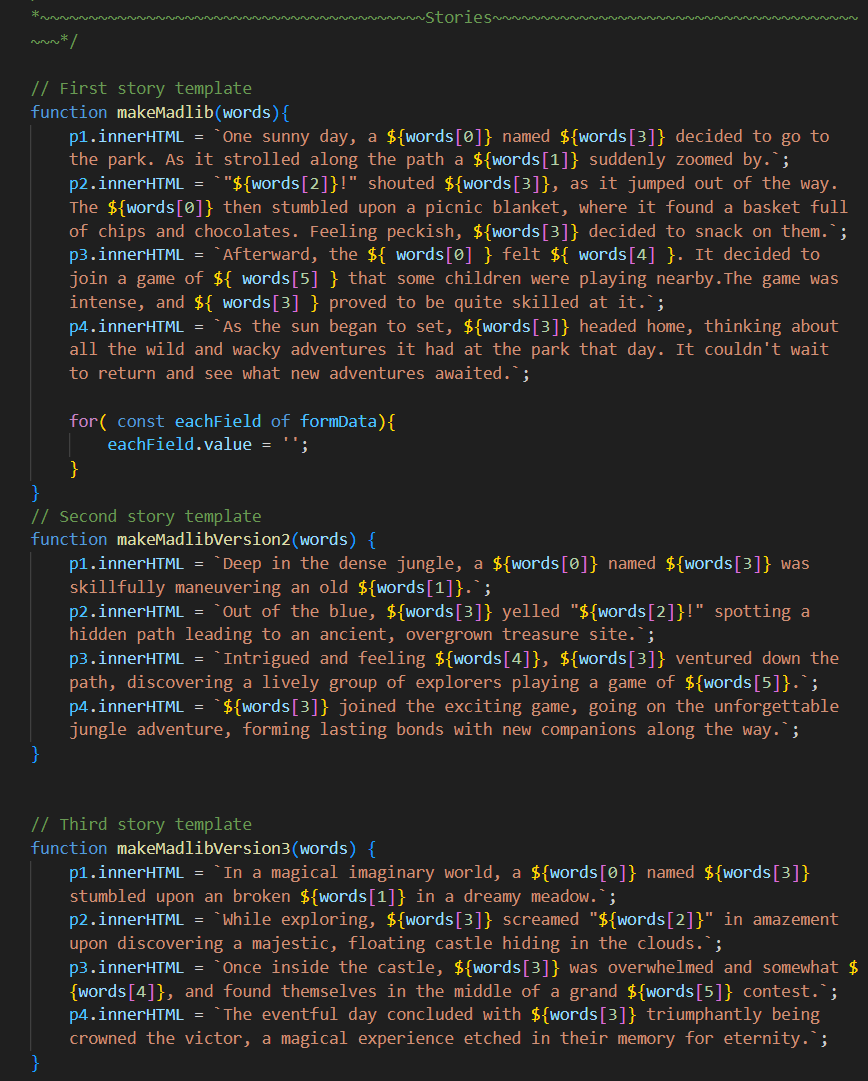
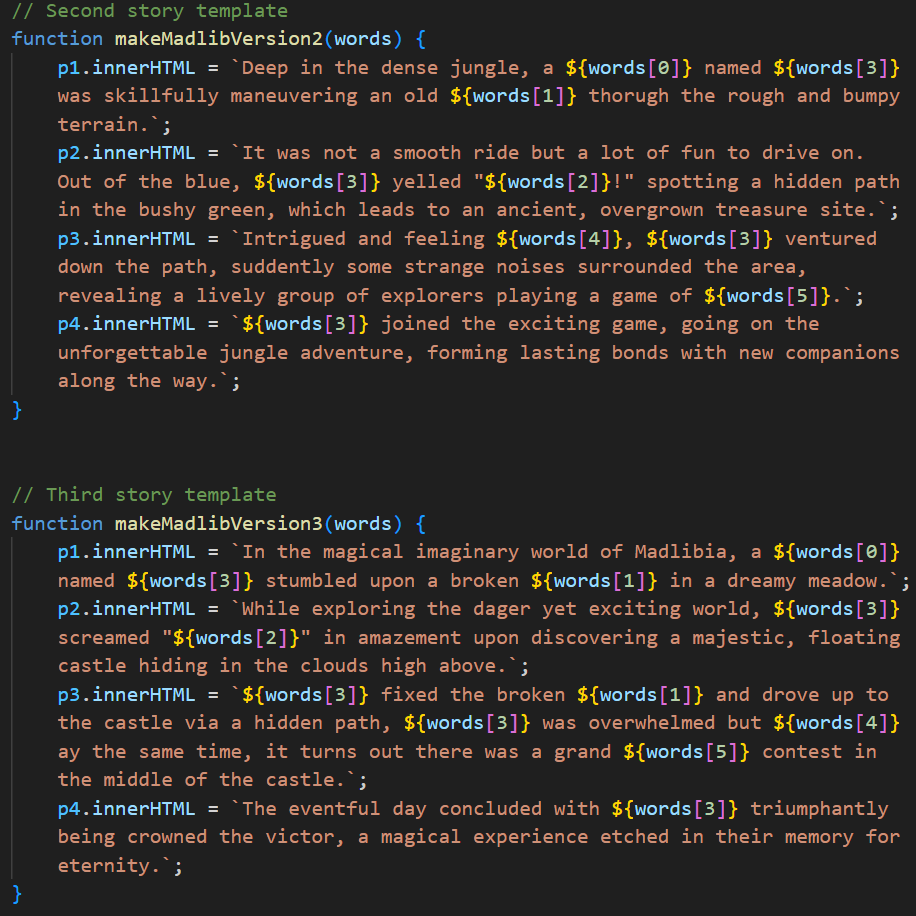
message

Changed region(s): [[0.0, 0.4585, 0.9954, 0.9782], [0.0, 0.0, 0.9954, 0.4279], [0.4666, 0.0, 0.5599, 0.0306]]

diff --git a/final/script.js b/final/script.js
@@ -133,18 +133,18 @@
     }
     // Second story template
     function makeMadlibVersion2(words) {
-        p1.innerHTML = `Deep in the dense jungle, a ${words[0]} named ${words[3]} was skillfully maneuvering an old ${words[1]}.`;
-        p2.innerHTML = `Out of the blue, ${words[3]} yelled "${words[2]}!" spotting a hidden path leading to an ancient, overgrown treasure site.`;
-        p3.innerHTML = `Intrigued and feeling ${words[4]}, ${words[3]} ventured down the path, discovering a lively group of explorers playing a game of ${words[5]}.`;
+        p1.innerHTML = `Deep in the dense jungle, a ${words[0]} named ${words[3]} was skillfully maneuvering an old ${words[1]} thorugh the rough and bumpy terrain.`;
+        p2.innerHTML = `It was not a smooth ride but a lot of fun to drive on. Out of the blue, ${words[3]} yelled "${words[2]}!" spotting a hidden path in the bushy green, which leads to an ancient, overgrown treasure site.`;
+        p3.innerHTML = `Intrigued and feeling ${words[4]}, ${words[3]} ventured down the path, suddently some strange noises surrounded the area, revealing a lively group of explorers playing a game of ${words[5]}.`;
         p4.innerHTML = `${words[3]} joined the exciting game, going on the unforgettable jungle adventure, forming lasting bonds with new companions along the way.`;
     }
 
 
     // Third story template
     function makeMadlibVersion3(words) {
-        p1.innerHTML = `In a magical imaginary world, a ${words[0]} named ${words[3]} stumbled upon an broken ${words[1]} in a dreamy meadow.`;
-        p2.innerHTML = `While exploring, ${words[3]} screamed "${words[2]}" in amazement upon discovering a majestic, floating castle hiding in the clouds.`;
-        p3.innerHTML = `Once inside the castle, ${words[3]} was overwhelmed and somewhat ${words[4]}, and found themselves in the middle of a grand ${words[5]} contest.`;
+        p1.innerHTML = `In the magical imaginary world of Madlibia, a ${words[0]} named ${words[3]} stumbled upon a broken ${words[1]} in a dreamy meadow.`;
+        p2.innerHTML = `While exploring the dager yet exciting world, ${words[3]} screamed "${words[2]}" in amazement upon discovering a majestic, floating castle hiding in the clouds high above.`;
+        p3.innerHTML = `${words[3]} fixed the broken ${words[1]} and drove up to the castle via a hidden path, ${words[3]} was overwhelmed but ${words[4]} ay the same time, it turns out there was a grand ${words[5]} contest in the middle of the castle.`;
         p4.innerHTML = `The eventful day concluded with ${words[3]} triumphantly being crowned the victor, a magical experience etched in their memory for eternity.`;
     }
     
